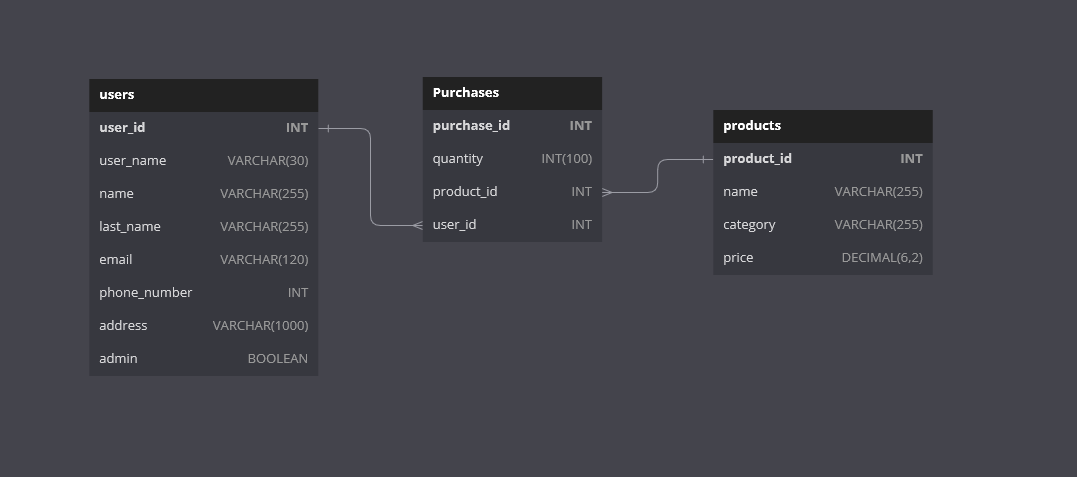
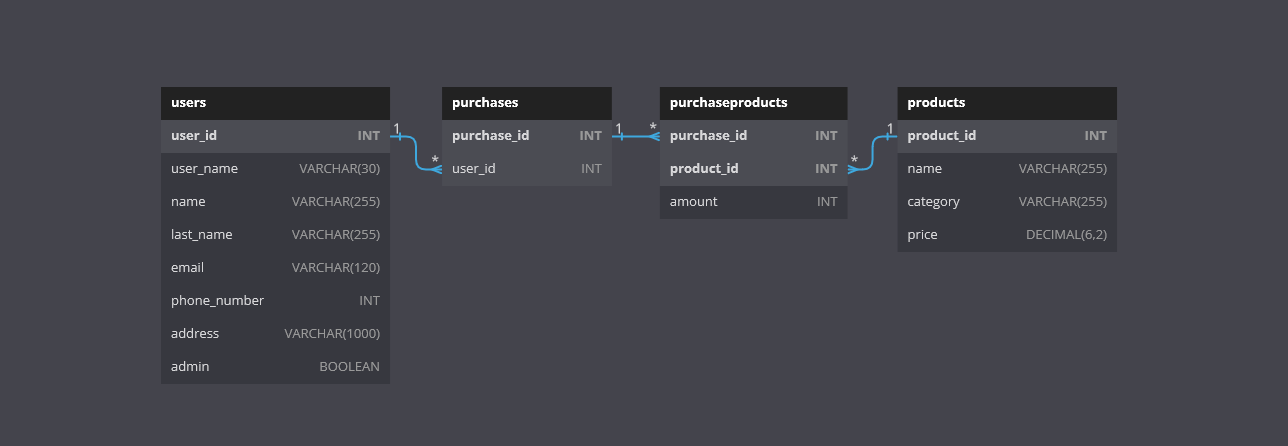
adding beans with entities. Sql and diagram change

diff --git a/src/main/java/bean/User.java b/src/main/java/bean/User.java
@@ -1,0 +1,114 @@
+package bean;
+
+import org.springframework.stereotype.Component;
+
+import jakarta.persistence.Column;
+import jakarta.persistence.Entity;
+import jakarta.persistence.GeneratedValue;
+import jakarta.persistence.GenerationType;
+import jakarta.persistence.Id;
+import jakarta.persistence.Table;
+
+@Entity
+@Component
+@Table(name="users")
+public class User {
+    @Id
+    @GeneratedValue(strategy = GenerationType.IDENTITY)
+    @Column(name = "user_id")
+    private int userId;
+    @Column(name = "user_name")
+    private String userName;
+    private String name;
+    @Column(name = "last_name")
+    private String lastName;
+    private String email;
+    @Column(name="phone_number")
+    private int phoneNumber;
+    private String address;
+    private Boolean admin;
+
+
+    public int getUserId() {
+        return this.userId;
+    }
+
+    public void setUserId(int userId) {
+        this.userId = userId;
+    }
+
+    public String getUserName() {
+        return this.userName;
+    }
+
+    public void setUserName(String userName) {
+        this.userName = userName;
+    }
+
+    public String getName() {
+        return this.name;
+    }
+
+    public void setName(String name) {
+        this.name = name;
+    }
+
+    public String getLastName() {
+        return this.lastName;
+    }
+
+    public void setLastName(String lastName) {
+        this.lastName = lastName;
+    }
+
+    public String getEmail() {
+        return this.email;
+    }
+
+    public void setEmail(String email) {
+        this.email = email;
+    }
+
+    public int getPhoneNumber() {
+        return this.phoneNumber;
+    }
+
+    public void setPhoneNumber(int phoneNumber) {
+        this.phoneNumber = phoneNumber;
+    }
+
+    public String getAddress() {
+        return this.address;
+    }
+
+    public void setAddress(String address) {
+        this.address = address;
+    }
+
+    public Boolean isAdmin() {
+        return this.admin;
+    }
+
+    public Boolean getAdmin() {
+        return this.admin;
+    }
+
+    public void setAdmin(Boolean admin) {
+        this.admin = admin;
+    }
+
+    @Override
+    public String toString() {
+        return "{" +
+            " userId='" + getUserId() + "'" +
+            ", userName='" + getUserName() + "'" +
+            ", name='" + getName() + "'" +
+            ", lastName='" + getLastName() + "'" +
+            ", email='" + getEmail() + "'" +
+            ", phoneNumber='" + getPhoneNumber() + "'" +
+            ", address='" + getAddress() + "'" +
+            ", admin='" + isAdmin() + "'" +
+            "}";
+    }
+    
+}

diff --git a/src/main/java/bean/Product.java b/src/main/java/bean/Product.java
@@ -1,0 +1,69 @@
+package bean;
+
+import org.springframework.stereotype.Component;
+
+import jakarta.persistence.Column;
+import jakarta.persistence.Entity;
+import jakarta.persistence.GeneratedValue;
+import jakarta.persistence.GenerationType;
+import jakarta.persistence.Id;
+import jakarta.persistence.Table;
+
+@Entity
+@Component
+@Table(name="products")
+public class Product {
+    @Id
+    @GeneratedValue(strategy = GenerationType.IDENTITY)
+    @Column(name = "product_id")
+    private int productId;
+    @Column(name = "name")
+    private String productName;
+    @Column(name = "category")
+    private String productCategory;
+    @Column(name = "price")
+    private float productPrice;
+
+    public int getProductId() {
+        return this.productId;
+    }
+
+    public void setProductId(int productId) {
+        this.productId = productId;
+    }
+
+    public String getProductName() {
+        return this.productName;
+    }
+
+    public void setProductName(String productName) {
+        this.productName = productName;
+    }
+
+    public String getProductCategory() {
+        return this.productCategory;
+    }
+
+    public void setProductCategory(String productCategory) {
+        this.productCategory = productCategory;
+    }
+
+    public float getProductPrice() {
+        return this.productPrice;
+    }
+
+    public void setProductPrice(float productPrice) {
+        this.productPrice = productPrice;
+    }
+
+    @Override
+    public String toString() {
+        return "{" +
+            " productId='" + getProductId() + "'" +
+            ", productName='" + getProductName() + "'" +
+            ", productCategory='" + getProductCategory() + "'" +
+            ", productPrice='" + getProductPrice() + "'" +
+            "}";
+    }
+
+}

diff --git a/src/main/java/bean/PurchaseProduct.java b/src/main/java/bean/PurchaseProduct.java
@@ -1,0 +1,63 @@
+package bean;
+import org.springframework.stereotype.Component;
+
+import jakarta.persistence.Column;
+import jakarta.persistence.Entity;
+import jakarta.persistence.FetchType;
+import jakarta.persistence.Id;
+import jakarta.persistence.JoinColumn;
+import jakarta.persistence.ManyToOne;
+import jakarta.persistence.Table;
+
+@Entity
+@Component
+@Table(name="purchaseproducts")
+public class PurchaseProduct {
+    @Id
+    @ManyToOne(fetch = FetchType.EAGER)
+	@JoinColumn(name = "purchase_id", nullable = false)
+    @Column(name = "purchase_id")
+    private Purchase purchase;
+
+    @Id
+    @ManyToOne(fetch = FetchType.EAGER)
+	@JoinColumn(name = "product_id", nullable = false)
+    @Column(name = "product_id")
+    private Product product;
+    private int amount;
+    
+    public Purchase getPurchase() {
+        return this.purchase;
+    }
+
+    public void setPurchase(Purchase purchase) {
+        this.purchase = purchase;
+    }
+
+    public Product getProduct() {
+        return this.product;
+    }
+
+    public void setProduct(Product product) {
+        this.product = product;
+    }
+
+    public int getAmount() {
+        return this.amount;
+    }
+
+    public void setAmount(int amount) {
+        this.amount = amount;
+    }
+    
+
+    @Override
+    public String toString() {
+        return "{" +
+            " purchase='" + getPurchase() + "'" +
+            ", product='" + getProduct() + "'" +
+            ", amount='" + getAmount() + "'" +
+            "}";
+    }
+
+}

diff --git a/src/main/java/bean/Purchase.java b/src/main/java/bean/Purchase.java
@@ -1,0 +1,61 @@
+package bean;
+
+import org.springframework.stereotype.Component;
+
+import jakarta.persistence.Column;
+import jakarta.persistence.Entity;
+import jakarta.persistence.FetchType;
+import jakarta.persistence.GeneratedValue;
+import jakarta.persistence.GenerationType;
+import jakarta.persistence.Id;
+import jakarta.persistence.JoinColumn;
+import jakarta.persistence.ManyToOne;
+import jakarta.persistence.Table;
+
+@Entity
+@Component
+@Table(name="purchases")
+public class Purchase {
+    @Id
+    @GeneratedValue(strategy = GenerationType.IDENTITY)
+    @Column(name = "purchase_id")
+    private int purchaseId;
+	@ManyToOne(fetch = FetchType.EAGER)
+	@JoinColumn(name = "user_id", nullable = false)
+    private Product product;
+    private User user;
+
+    public int getPurchaseId() {
+        return this.purchaseId;
+    }
+
+    public void setPurchaseId(int purchaseId) {
+        this.purchaseId = purchaseId;
+    }
+
+    public Product getProduct() {
+        return this.product;
+    }
+
+    public void setProduct(Product product) {
+        this.product = product;
+    }
+
+    public User getUser() {
+        return this.user;
+    }
+
+    public void setUser(User user) {
+        this.user = user;
+    }
+
+    @Override
+    public String toString() {
+        return "{" +
+            " purchaseId='" + getPurchaseId() + "'" +
+            ", product='" + getProduct() + "'" +
+            ", user='" + getUser() + "'" +
+            "}";
+    }
+
+}

diff --git a/src/main/java/com/sportyshoes/main/SportyshoesApplication.java b/src/main/java/com/sportyshoes/main/SportyshoesApplication.java
@@ -1,4 +1,4 @@
-package com.sportyshoes.sportyshoes;
+package com.sportyshoes.main;
 
 import org.springframework.boot.SpringApplication;
 import org.springframework.boot.autoconfigure.SpringBootApplication;
